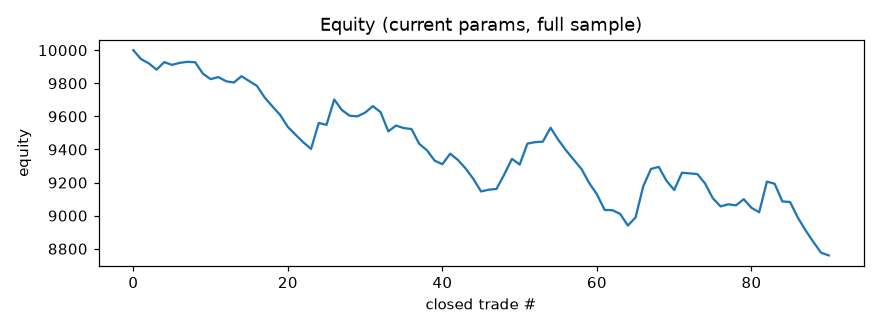
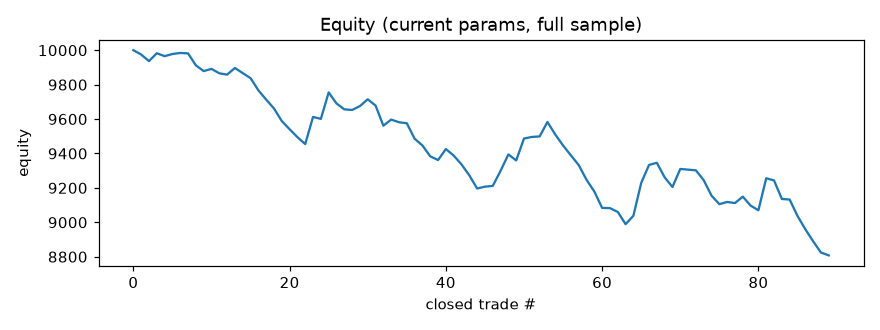
chore(finetune): cycle 2026-06-30T12:46Z

diff --git a/results/ETHUSDT/REPORT.md b/results/ETHUSDT/REPORT.md
@@ -1,6 +1,6 @@
 # Finetune report -- ETHUSDT 15m
 
-_Last run (UTC): 2026-06-30 09:11_
+_Last run (UTC): 2026-06-30 12:45_
 
 ## Current params (live)
 
@@ -24,8 +24,8 @@ _Last run (UTC): 2026-06-30 09:11_
 
 ## Latest cycle
 
-- Current-params net profit (full sample): **-12.4%**, PF 0.578, 90 trades, max DD -1240.07
-- Optimizer out-of-sample: net **-1.93%**, PF 0.679, 20 trades
+- Current-params net profit (full sample): **-11.96%**, PF 0.589, 89 trades, max DD -1195.75
+- Optimizer out-of-sample: net **-2.1%**, PF 0.657, 19 trades
 - Decision: **kept current params**
 
 ![equity curve](equity_curve.png)
@@ -34,7 +34,6 @@ _Last run (UTC): 2026-06-30 09:11_
 
 | time (UTC) | data bars | live net% | live PF | OOS net% | OOS PF | accepted |
 |---|---|---|---|---|---|---|
-| 2026-06-28 20:29 | 5000 | -12.73 | 0.57 | -3.22 | 0.549 | False |
 | 2026-06-29 00:54 | 5000 | -12.73 | 0.57 | -3.21 | 0.549 | False |
 | 2026-06-29 05:39 | 5000 | -12.7 | 0.571 | -2.96 | 0.57 | False |
 | 2026-06-29 09:40 | 5000 | -12.24 | 0.581 | -2.96 | 0.57 | False |
@@ -44,3 +43,4 @@ _Last run (UTC): 2026-06-30 09:11_
 | 2026-06-30 00:52 | 5000 | -12.4 | 0.578 | -2.31 | 0.632 | False |
 | 2026-06-30 05:27 | 5000 | -12.24 | 0.582 | -1.92 | 0.678 | False |
 | 2026-06-30 09:11 | 5000 | -12.4 | 0.578 | -1.93 | 0.679 | False |
+| 2026-06-30 12:45 | 5000 | -11.96 | 0.589 | -2.1 | 0.657 | False |

diff --git a/results/BTCUSDT/REPORT.md b/results/BTCUSDT/REPORT.md
@@ -1,6 +1,6 @@
 # Finetune report -- BTCUSDT 15m
 
-_Last run (UTC): 2026-06-30 09:11_
+_Last run (UTC): 2026-06-30 12:45_
 
 ## Current params (live)
 
@@ -24,8 +24,8 @@ _Last run (UTC): 2026-06-30 09:11_
 
 ## Latest cycle
 
-- Current-params net profit (full sample): **-6.07%**, PF 0.735, 65 trades, max DD -854.04
-- Optimizer out-of-sample: net **-7.47%**, PF 0.271, 22 trades
+- Current-params net profit (full sample): **-6.11%**, PF 0.733, 64 trades, max DD -853.73
+- Optimizer out-of-sample: net **-7.48%**, PF 0.27, 22 trades
 - Decision: **kept current params**
 
 ![equity curve](equity_curve.png)
@@ -34,7 +34,6 @@ _Last run (UTC): 2026-06-30 09:11_
 
 | time (UTC) | data bars | live net% | live PF | OOS net% | OOS PF | accepted |
 |---|---|---|---|---|---|---|
-| 2026-06-28 20:29 | 5000 | -6.64 | 0.715 | -7.43 | 0.356 | False |
 | 2026-06-29 00:54 | 5000 | -6.63 | 0.714 | -7.06 | 0.367 | False |
 | 2026-06-29 05:39 | 5000 | -6.24 | 0.727 | -6.73 | 0.379 | False |
 | 2026-06-29 09:40 | 5000 | -6.24 | 0.727 | -6.74 | 0.379 | False |
@@ -44,3 +43,4 @@ _Last run (UTC): 2026-06-30 09:11_
 | 2026-06-30 00:51 | 5000 | -6.24 | 0.727 | -6.38 | 0.393 | False |
 | 2026-06-30 05:26 | 5000 | -6.07 | 0.735 | -6.6 | 0.339 | False |
 | 2026-06-30 09:11 | 5000 | -6.07 | 0.735 | -7.47 | 0.271 | False |
+| 2026-06-30 12:45 | 5000 | -6.11 | 0.733 | -7.48 | 0.27 | False |

diff --git a/results/ETCUSDT/REPORT.md b/results/ETCUSDT/REPORT.md
@@ -1,6 +1,6 @@
 # Finetune report -- ETCUSDT 15m
 
-_Last run (UTC): 2026-06-30 09:11_
+_Last run (UTC): 2026-06-30 12:46_
 
 ## Current params (live)
 
@@ -24,8 +24,8 @@ _Last run (UTC): 2026-06-30 09:11_
 
 ## Latest cycle
 
-- Current-params net profit (full sample): **-8.8%**, PF 0.686, 80 trades, max DD -1249.44
-- Optimizer out-of-sample: net **-0.9%**, PF 0.876, 19 trades
+- Current-params net profit (full sample): **-8.41%**, PF 0.697, 79 trades, max DD -1254.82
+- Optimizer out-of-sample: net **-1.53%**, PF 0.787, 19 trades
 - Decision: **kept current params**
 
 ![equity curve](equity_curve.png)
@@ -34,7 +34,6 @@ _Last run (UTC): 2026-06-30 09:11_
 
 | time (UTC) | data bars | live net% | live PF | OOS net% | OOS PF | accepted |
 |---|---|---|---|---|---|---|
-| 2026-06-28 20:29 | 5000 | -7.53 | 0.722 | 1.38 | 1.214 | True |
 | 2026-06-29 00:54 | 5000 | -7.5 | 0.723 | 1.38 | 1.214 | True |
 | 2026-06-29 05:39 | 5000 | -8.28 | 0.7 | 1.38 | 1.214 | True |
 | 2026-06-29 09:40 | 5000 | -7.6 | 0.719 | 1.38 | 1.187 | True |
@@ -44,3 +43,4 @@ _Last run (UTC): 2026-06-30 09:11_
 | 2026-06-30 00:52 | 5000 | -8.41 | 0.694 | 0.06 | 1.012 | True |
 | 2026-06-30 05:27 | 5000 | -8.13 | 0.709 | -0.2 | 0.977 | False |
 | 2026-06-30 09:11 | 5000 | -8.8 | 0.686 | -0.9 | 0.876 | False |
+| 2026-06-30 12:46 | 5000 | -8.41 | 0.697 | -1.53 | 0.787 | False |

diff --git a/results/REPORT.md b/results/REPORT.md
@@ -1,9 +1,9 @@
 # Finetune index -- 15m
 
-_Last run (UTC): 2026-06-30 09:11_
+_Last run (UTC): 2026-06-30 12:46_
 
 | symbol | bars | live net% | live PF | OOS net% | OOS PF | trades | accepted | report |
 |---|---|---|---|---|---|---|---|---|
-| BTCUSDT | 5000 | -6.07 | 0.735 | -7.47 | 0.271 | 22 | False | [BTCUSDT](BTCUSDT/REPORT.md) |
-| ETHUSDT | 5000 | -12.4 | 0.578 | -1.93 | 0.679 | 20 | False | [ETHUSDT](ETHUSDT/REPORT.md) |
-| ETCUSDT | 5000 | -8.8 | 0.686 | -0.9 | 0.876 | 19 | False | [ETCUSDT](ETCUSDT/REPORT.md) |
+| BTCUSDT | 5000 | -6.11 | 0.733 | -7.48 | 0.27 | 22 | False | [BTCUSDT](BTCUSDT/REPORT.md) |
+| ETHUSDT | 5000 | -11.96 | 0.589 | -2.1 | 0.657 | 19 | False | [ETHUSDT](ETHUSDT/REPORT.md) |
+| ETCUSDT | 5000 | -8.41 | 0.697 | -1.53 | 0.787 | 19 | False | [ETCUSDT](ETCUSDT/REPORT.md) |
